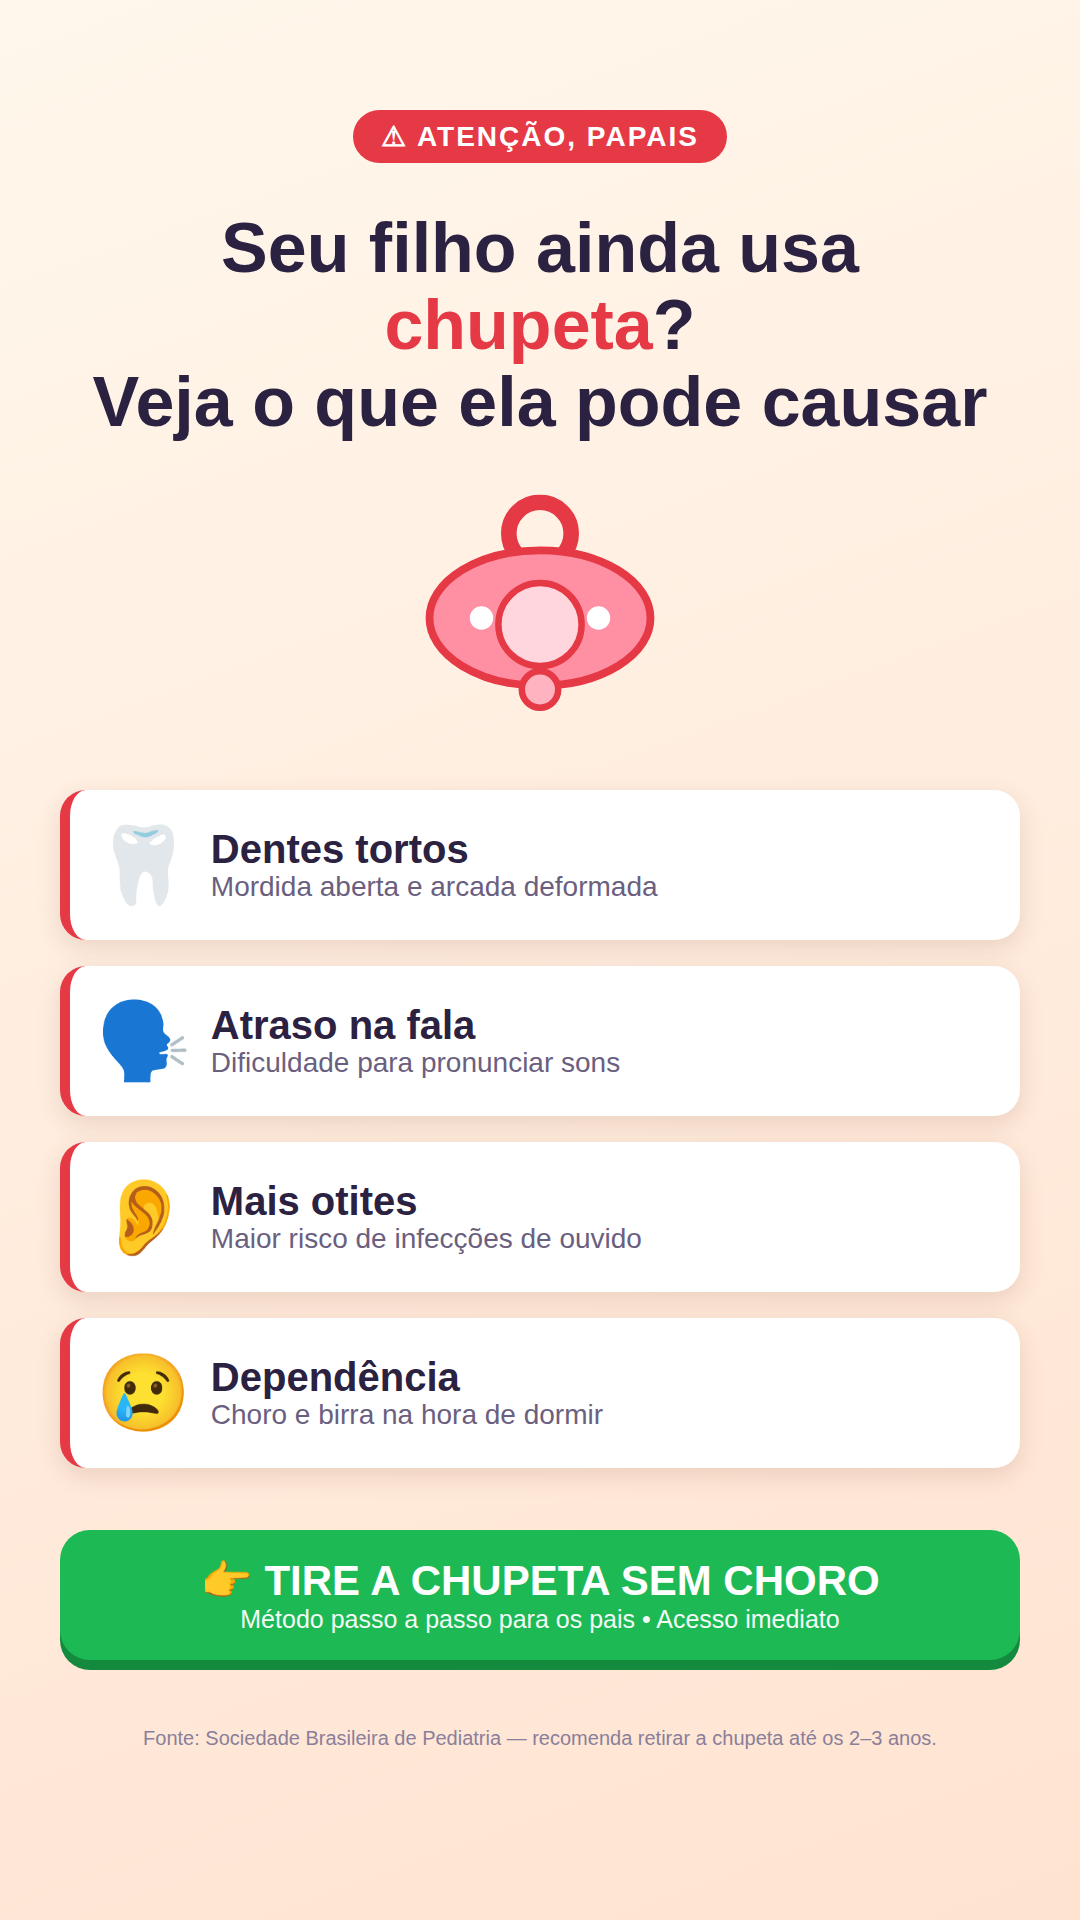
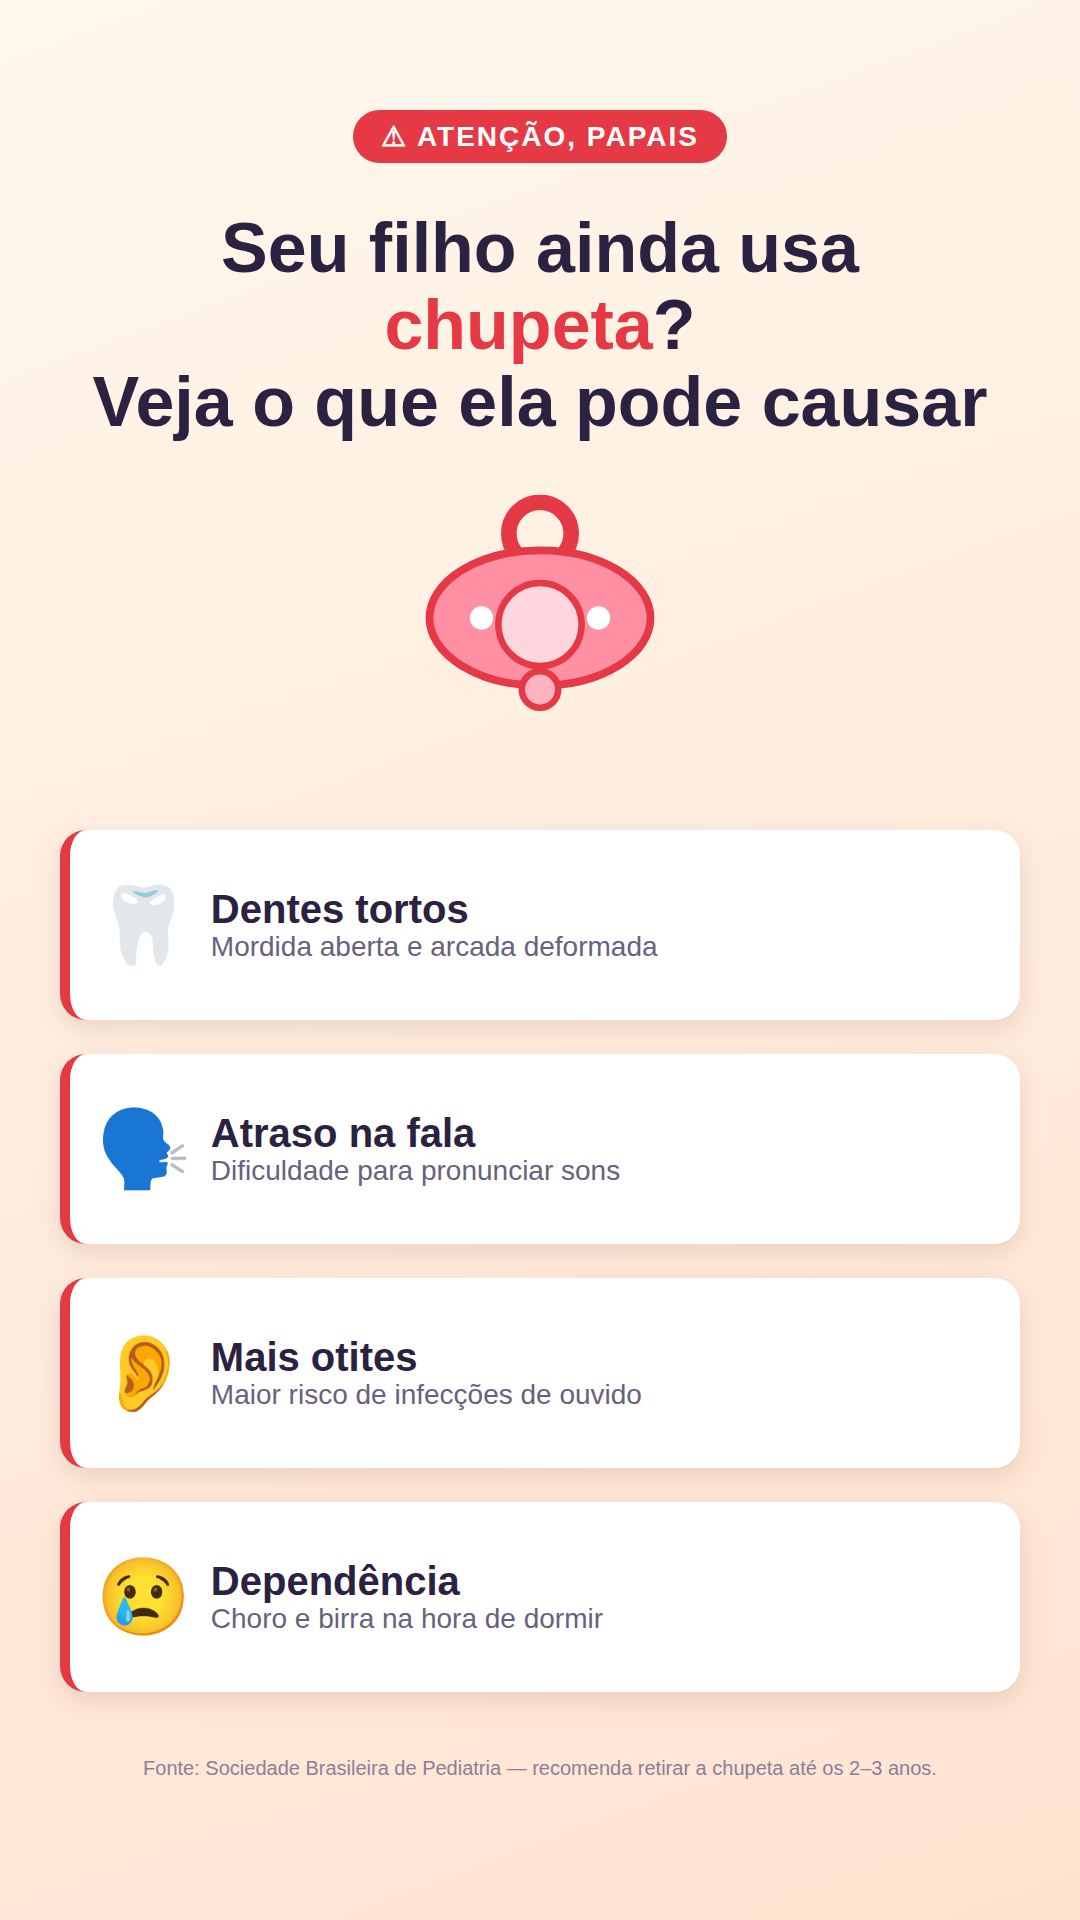
Remove CTA button from creatives, keep only harms illustration
Claude-Session: https://claude.ai/code/session_01N8gzyV7G4cC6EtzbwrBBiE

Changed region(s): [[0.0306, 0.4062, 0.9472, 0.75], [0.0306, 0.7812, 0.9472, 0.9375]]

diff --git a/criativo/chupeta.html b/criativo/chupeta.html
@@ -6,15 +6,12 @@ body{width:1080px;height:1080px;font-family:'Poppins','Helvetica Neue',Arial,san
 h1{position:absolute;top:120px;left:60px;right:60px;text-align:center;font-size:62px;line-height:1.1;font-weight:900}
 h1 span{color:#e63946}
 .pac{position:absolute;top:310px;left:50%;transform:translateX(-50%)}
-.grid{position:absolute;top:515px;gap:22px;left:60px;right:60px;display:grid;grid-template-columns:1fr 1fr;gap:22px}
-.card{min-height:150px;background:#fff;border-radius:26px;padding:22px 26px;display:flex;align-items:center;gap:20px;box-shadow:0 8px 24px rgba(120,60,40,.15);border-left:10px solid #e63946}
+.grid{position:absolute;top:540px;gap:22px;left:60px;right:60px;display:grid;grid-template-columns:1fr 1fr;gap:22px}
+.card{min-height:200px;background:#fff;border-radius:26px;padding:22px 26px;display:flex;align-items:center;gap:20px;box-shadow:0 8px 24px rgba(120,60,40,.15);border-left:10px solid #e63946}
 .card .ic{font-size:58px}
-.card b{font-size:30px;line-height:1.1;display:block}
-.card small{font-size:21px;color:#6b5f80}
-.cta{position:absolute;bottom:40px;left:60px;right:60px;background:#1db954;color:#fff;text-align:center;border-radius:30px;padding:26px 20px;box-shadow:0 10px 0 #148a3f}
-.cta b{font-size:42px;display:block;font-weight:900}
-.cta small{font-size:25px;opacity:.95}
-.src{position:absolute;bottom:2px;width:100%;text-align:center;font-size:15px;color:#8a7f9a}
+.card b{font-size:36px;line-height:1.1;display:block}
+.card small{font-size:25px;color:#6b5f80}
+.src{position:absolute;bottom:22px;width:100%;text-align:center;font-size:15px;color:#8a7f9a}
 </style></head><body>
 <div class="top"><span class="tag">⚠ ATENÇÃO, PAPAIS</span></div>
 <h1>Seu filho ainda usa <span>chupeta</span>?<br>Veja o que ela pode causar</h1>
@@ -33,6 +30,5 @@ h1 span{color:#e63946}
  <div class="card"><div class="ic">👂</div><div><b>Mais otites</b><small>Maior risco de infecções de ouvido</small></div></div>
  <div class="card"><div class="ic">😢</div><div><b>Dependência</b><small>Choro e birra na hora de dormir</small></div></div>
 </div>
-<div class="cta"><b>👉 TIRE A CHUPETA SEM CHORO</b><small>Método passo a passo para os pais • Acesso imediato</small></div>
 <div class="src">Fonte: Sociedade Brasileira de Pediatria — recomenda retirar a chupeta até os 2–3 anos.</div>
 </body></html>

diff --git a/criativo/chupeta-9x16.html b/criativo/chupeta-9x16.html
@@ -6,15 +6,12 @@ body{width:1080px;height:1920px;font-family:'Poppins','Helvetica Neue',Arial,san
 h1{position:absolute;top:210px;left:60px;right:60px;text-align:center;font-size:70px;line-height:1.1;font-weight:900}
 h1 span{color:#e63946}
 .pac{position:absolute;top:520px;left:50%;transform:translateX(-50%) scale(1.3)}
-.grid{position:absolute;top:790px;left:60px;right:60px;display:grid;grid-template-columns:1fr;gap:26px}
-.card{min-height:150px;background:#fff;border-radius:26px;padding:22px 26px;display:flex;align-items:center;gap:20px;box-shadow:0 8px 24px rgba(120,60,40,.15);border-left:10px solid #e63946}
+.grid{position:absolute;top:830px;left:60px;right:60px;display:grid;grid-template-columns:1fr;gap:34px}
+.card{min-height:190px;background:#fff;border-radius:26px;padding:22px 26px;display:flex;align-items:center;gap:20px;box-shadow:0 8px 24px rgba(120,60,40,.15);border-left:10px solid #e63946}
 .card .ic{font-size:76px}
 .card b{font-size:40px;line-height:1.1;display:block}
 .card small{font-size:28px;color:#6b5f80}
-.cta{position:absolute;bottom:260px;left:60px;right:60px;background:#1db954;color:#fff;text-align:center;border-radius:30px;padding:26px 20px;box-shadow:0 10px 0 #148a3f}
-.cta b{font-size:42px;display:block;font-weight:900}
-.cta small{font-size:25px;opacity:.95}
-.src{position:absolute;bottom:170px;width:100%;text-align:center;font-size:20px;color:#8a7f9a}
+.src{position:absolute;bottom:140px;width:100%;text-align:center;font-size:20px;color:#8a7f9a}
 </style></head><body>
 <div class="top"><span class="tag">⚠ ATENÇÃO, PAPAIS</span></div>
 <h1>Seu filho ainda usa <span>chupeta</span>?<br>Veja o que ela pode causar</h1>
@@ -33,6 +30,5 @@ h1 span{color:#e63946}
  <div class="card"><div class="ic">👂</div><div><b>Mais otites</b><small>Maior risco de infecções de ouvido</small></div></div>
  <div class="card"><div class="ic">😢</div><div><b>Dependência</b><small>Choro e birra na hora de dormir</small></div></div>
 </div>
-<div class="cta"><b>👉 TIRE A CHUPETA SEM CHORO</b><small>Método passo a passo para os pais • Acesso imediato</small></div>
 <div class="src">Fonte: Sociedade Brasileira de Pediatria — recomenda retirar a chupeta até os 2–3 anos.</div>
 </body></html>
